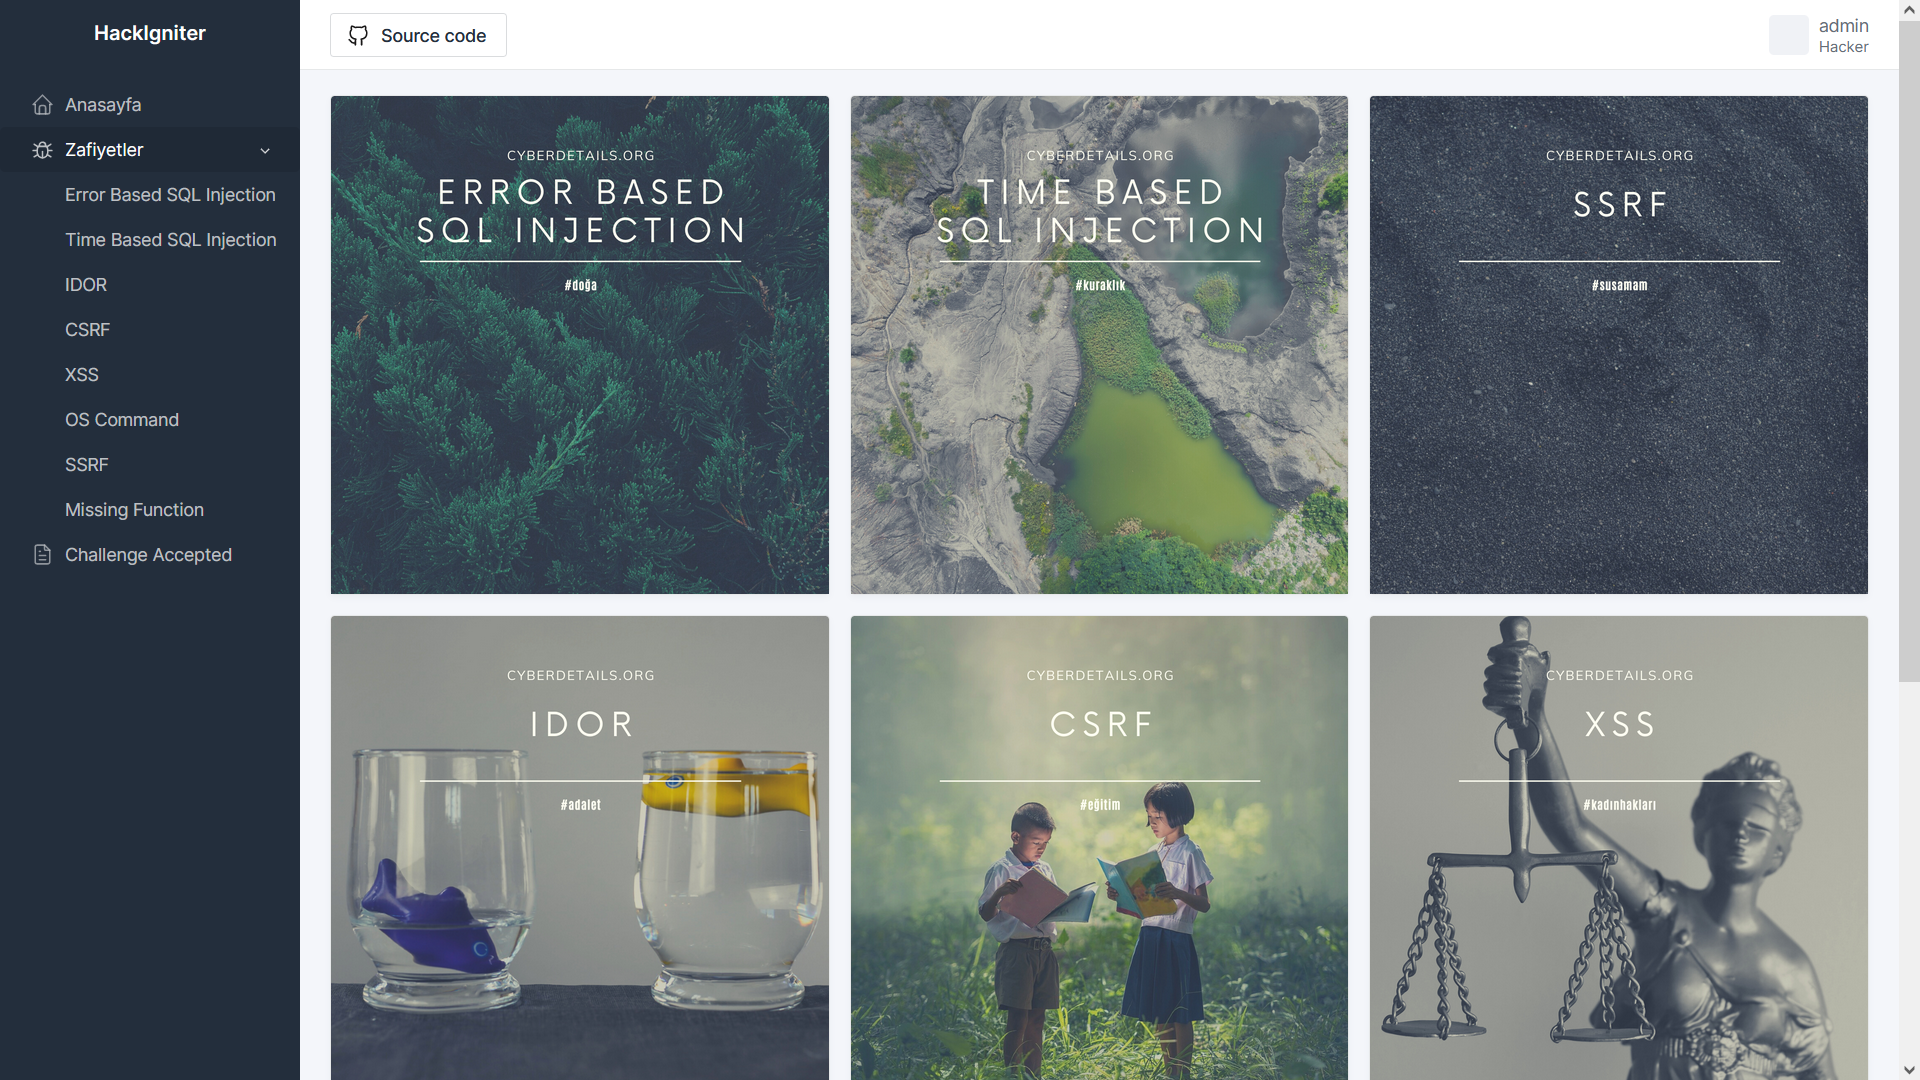
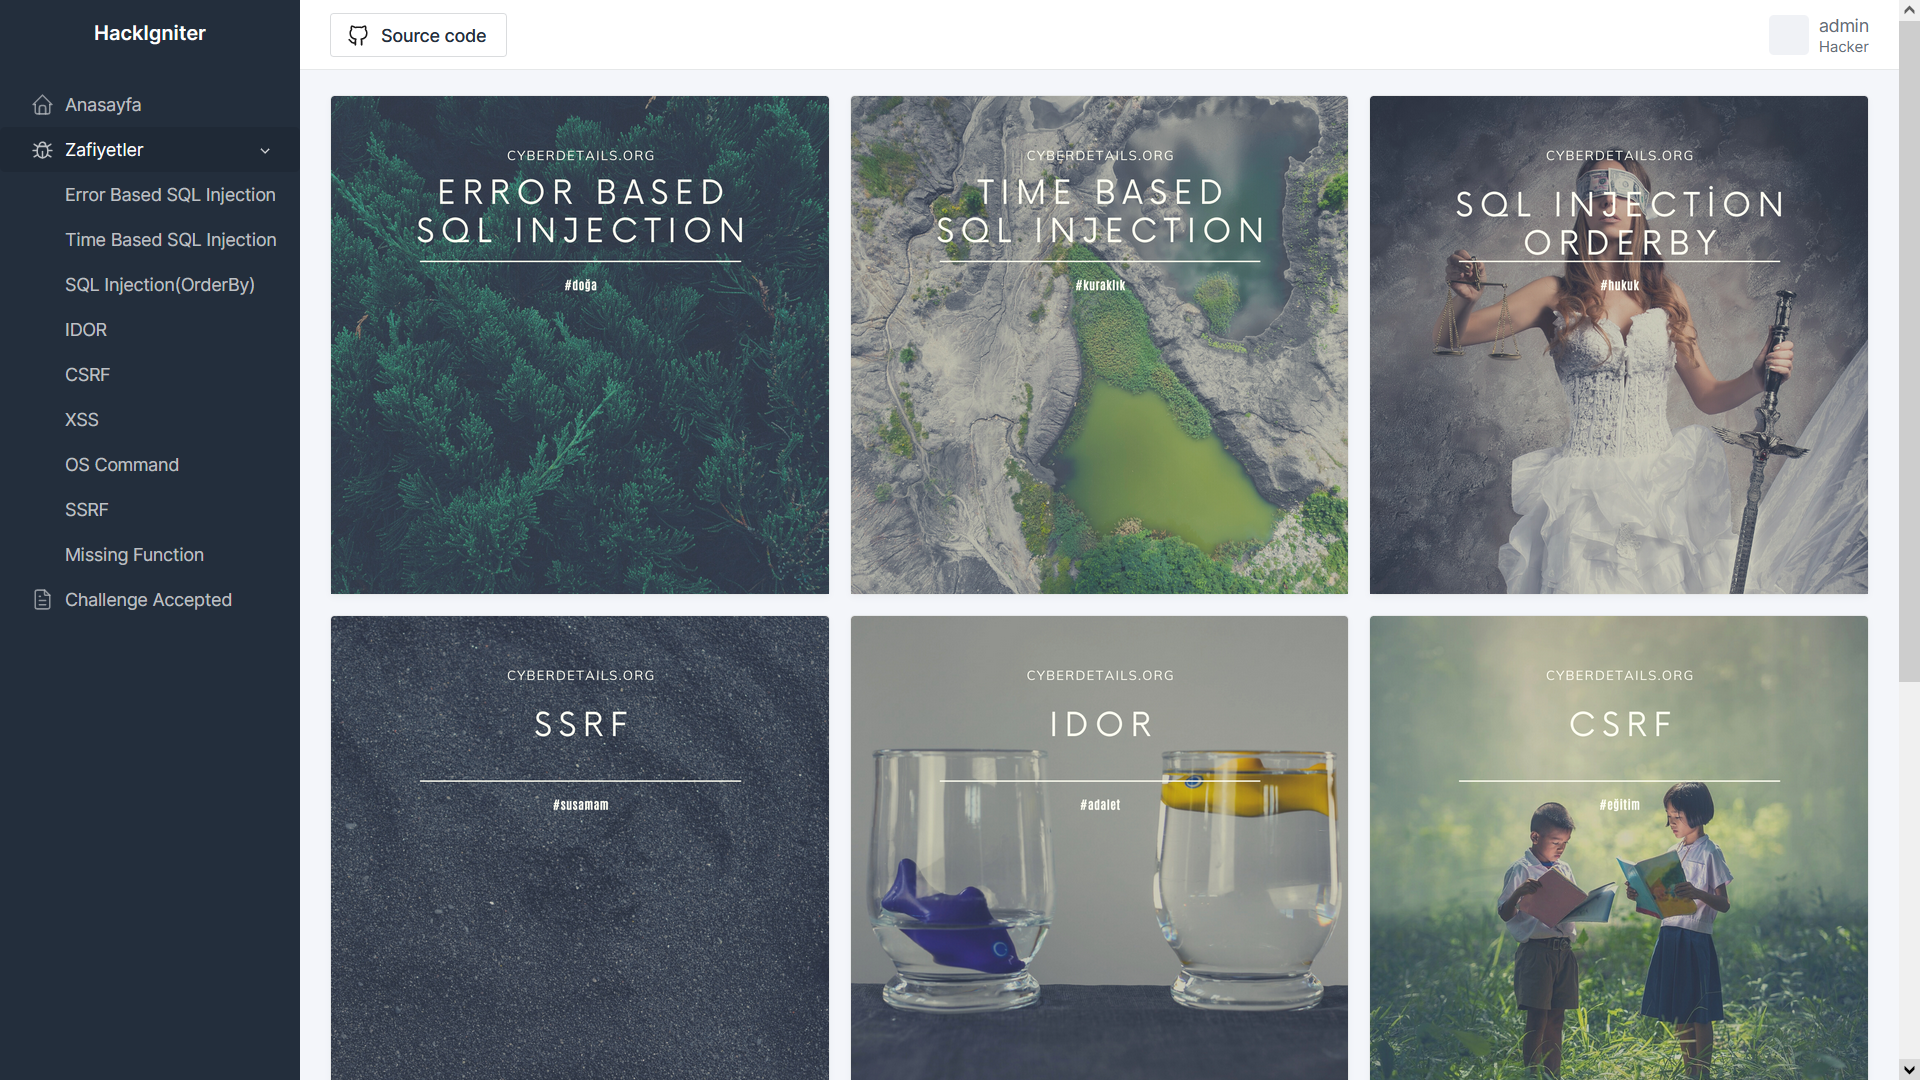
Yeni sql injection zafiyeti eklendi
- HackIgniter ugulamasına yeni bir sql injection zafiyeti eklendi.
- Zafiyet anasayfa, menü alanlarına eklendi.
- Readme sayfasında yer alan versiyon bilgileri ve ana sayfa resmi değiştirildi.
- Kök dizinde yer alan sql dosyası güncellendi.
- Yeni zafiyete ait olan hi_sqli_0 isimli tablonun kurulumu için Setup.php ve SetupModel.php sayfaları gerekli veritabanı oluşturma kodları eklendi.

diff --git a/application/models/SetupModel.php b/application/models/SetupModel.php
@@ -128,4 +128,13 @@ class SetupModel extends CI_Model
         }
     }
 
+    public function hi_sqli_0()
+    {
+        $createTable = "CREATE TABLE `hi_0` ( `id` int(11) NOT NULL AUTO_INCREMENT, `username` varchar(250) NOT NULL, `password` varchar(250) NOT NULL, `loginStatus` enum('0','1') NOT NULL DEFAULT '0', PRIMARY KEY (`id`), UNIQUE KEY `username` (`username`) ) ENGINE=InnoDB AUTO_INCREMENT=3 DEFAULT CHARSET=utf8mb4";
+        $insertData = "INSERT INTO `hi_sqli_0` (`id`, `text`, `author`) VALUES (1, 'Sağı solu belli olmayan Mangala gitti maganda! Orman yanar Tabiatın gözleri kan ağlar', 'Fuat'), (2, 'Abi yapma! Atma şu izmaritini denize Geri alamazsın Gün gelir o pisliğini attığın denize hasret kalırsın, bakamazsın!', 'Ados'), (3, 'Fakirin vergisiyle yatına, katına katana salak Haşere geri yolsuz vekil seni, senin eserin! Şimdi kapını kollaması gereken adalet gelir acımaz\r\n\r\nVurur kırar kapını\r\n\r\nÇünkü çocuk öldü vuran memurdu diye \"Haklıdır\" dedin\r\n\r\nSesini çıkarmadın, yani suçlusun!', 'Şanışer'), (4, 'Medya, basın, hukuk, asker hepsi sizin için çalışırken Aslen güneş bile üzerine doğuyo bu çocukların İşe gidip geliyolar canlarına kasten Silahınızı kin! Bu çektiğimiz bizim günahımız değil Planınız iyi! Ben bilmem bunun inananı kim? Ama bilirim, gel Silahımız dil!', 'Hayki'), (5, 'Müzik yapmak dışında bi\' bok yemedim! Polis bi\' şeyleri problem edip Yine duruşmadayım sen konsere git Ben aynı takım elbisemle 10 senedir Biri dönüp desin bana \"Çaban boş yere değil\" O gün kalbimi, ruhumu komple veriyim ama Yargı gelip arıyor bedeli Yaşıyorum cehennemi, yanıyor bedenim', 'Server Uraz'), (6, 'Merhaba Türkiye Bende var hüviyet Yaşamaya çalışıyoruz hasbelkader gitmeden katakulliye Ekrana süs diye çıkan şarlatan, hep fanatik biri! Fesatlık, kötü niyet salgın gibi Eder daha manipüle! Bu bir temsil ya da piyes! Bu uçaksa bu türbülans! Komşumuzdu Suriye Şimdi bu gemideki vatandaş mı? (Yurttaş mı?) Huzurda değil ölü bile topraktakilerin ahı var Sadece gazeteydi \"Hürriyet\" Sen olabildiğince özgür ol!', 'Beta'), (7, 'Beton ormanda hayvan olman normal Tutsak göz altların yine morlar Yönetenler çağ dışı dinozorlar Bu ormanda herkese göre rol var Sustukça sıra sana gelecek Aydın beyinleri bekliyor karanlık gelecek', 'Asil Slang & Zen-G'), (8, 'Sokak başı üniversite ama köy okulları çok terste Başa gelenin ideolojisi neyse o anlatılır her derste Zengin, fakir ayrı Torpile ya da parasına göre kayırır Eğitim endüstridir İnşaattan rant sağlamaka aynı! Kiminin kitap alıcak bi\' parası yok Öğretmen atanıcak ama \"arası\" yok! Milletvekili bi\' tanıdık mı, wow Beni anlaman da bu mantıkla zor Bari bi\' köy okulunun yardımına koş Her tarafı kaos Sen de biraz boğuş Bu gece uyudu zorla çocuk Okula gidecek YOL YAP!', 'Sokrat St'), (9, 'Anlamak mı yasak olabilir Ama sadece bi\' yanıtı yok bi\' sürü cevap var koş git yanıt ara Peşine düş mutlaka kanıt ara Ruhunu demle hep yakıt ara lan Kalbini tut ve de buna tanık ara Hadi nefesini gör ve git sanat ara Sorgula sorgula atomları Işık hızını düşün ve de git kanat ara sonra Uç uçabildiğin kadar', 'Ozbi'), (10, 'Ben bilmem hiç kendimi korumak zorunda kalmadım Bilmem ben bi\' çocuğu düşünmek zorunda olmadım Hiç evlendirilmedim Evde dayak görmedim Kendi evimde kendi odama zorla hapsedilmedim Sözlerinizi kusmadım Yurdumdan edilmedim Nefretinizle yanmadım Yakılarak can vermedim Hiç kardeşim olmadı Hiç abimden korkmadım Okuldan alınmadım Ben hiç öldürülmedim', 'Deniz Tekin'), (11, 'Ülkede erkek neden en üstte minibüste, evde ya da metrobüste Taciz şiddeti hiç bitmiyo\' Kınamakla falan iş bitmiyo\' Uh, Ah, adam olamadınız bu kalıbının adamı mı para babalarınız? Beşiktaş\'ta beş tokat, leş hareketler Cebi dolu ciğerin beş para etmez Yaşadığın kafa ne? İnsan mısın? Biz utandık ulan! İnsan mısın? İnsan mısın? Bu hale nasıl gelir insan? Nasıl?', 'Yeis Sensura & Sehabe'), (12, 'Düşerim derinlere Dünya, dönsün başım gibi Aklımı kaybederek rüya Nefesim, iç sesim Düşerim derinlere Dünya, dönsün başım gibi Aklımı kaybederek rüya Nefesim, iç sesim Düşerim derinlere', 'Aspova'), (13, 'Bak Almanya buz gibi morg Bana sor sana diyim Gençlerin çoğunda amfetamin, tilidin ya da weed, kokain ya da speed, crack Sana göre güzel ama bana göre değil Bana göre değil, kafana göre yürü bas mayına geber Ederi kaç? Kaç? Kaç? Kaç paraya bedel? Yeter artık dönme teker gibi Dost ol yeter bana Geliyorsan dosdoğru gel', 'Defkhan'), (14, 'Bi\' kap su ver çok mu zor Vicdanlı ol be lanet Anlamak istemiyosun ama bütün bu canlar sana bana emanet Lan bi\' düşün: \"Soğukta kışta dışarda tek başına yaşıyosun Dilini anlayan kimse yok hep tehlike, hep felaket, hep afet\" Ademe bir türlü yaranamazlar Vicdana bakar paraya bakmaz Toplayıp ormana atmak çözüm değil Bunlar kurt değil, ormanda kendi başlarına yaşayamazlar Onları sen savun, onlar kendi haklarını arayamazlar Barınaklar dolu Memleket acı Seması kara Sokak hayvanlarına tecavüz etmenin, işkence etmenin cezası para \"Büyük ahlaksızlıklar için büyük aptallar lazımdır\" Bütün insanlar suçlu değildir ama Bütün hayvanlar masumdur', 'Şanışer'), (15, 'Gel, gül olur hapsolur bu suçlu cümleler! Yenilir hiç olurum fark etmezler! Susmam, susamam! Korkma yanıma gel! Gel, gül olur hapsolur bu suçlu cümleler! Yenilir hiç olurum fark etmezler! Susmam SUSAMAM!', 'Şanışer'), (16, 'Hiçbir şeyi yaşamak kadar sevme Sana bi dünya yaratamam da elini tutarım elbette Varsın herkes terk etsin seni Sen dünyayı terk etme Seni yargılamıyorum Acını tam olarak anlamam mümkün değil biliyorum Kaldıramadığım yükleri bırakıp kendi yolumdan gidiyorum ben Sen de aynaya bak lütfen \"Seni seviyorum\" de', 'Sokrat St'), (17, 'Ey! Faşizm ne mi? En amiyane deyimiyle faka basacağız Beynelmilel el birliğiyle Tek bildiğiniz siz Ve de pek çok kazanın asıl sebebi aşırı hırs Bu hırs bi\' ebedi his. Biz façası pis de eli temiz bir nesiliz Bu işin selesi siz de Tekeri gidonu biz Ey, e bi tabi biz de biz gibi bir nes\'lin peşindeyiz.', 'Aga B'), (18, 'Yüzüne bakamam yüzüm düşer o yerlere Ayakları çıplakken gözleri dalar düşlere Başı önünde ama beden çıkıyor sefere Yok mecal dizinde Bak, her bi\' günü sürgüne Kaçamıyo\' kovalıyo\' zalimler Ele güne, ele bakıyor o gözler Kodamanın parasını ateşe ver Ve de koyduğumun egosunu bi\' yere ser Sokağa bakanın adını değil Yoksulumun, yetimimin adını ver Zabıtaları seyyara değil Gökdelenlere gönder', 'Mirac'), (19, 'Fırtınadan kopup giden dalların bi\' tanesiyim Fazla yol almış ve yıpranmış İçimde neler dönüp durur anlatsam tarifi yok Bazen evsiz bi\' çocuğun hikayesiyim', 'Mert Şenel'), (20, 'Can pazarı, otobanlar can pazarı 365 günün riskli Bitmiyo\' gamsız magandası Öde kan parası Bi\' kaza bayrama matem düşürür Yürek dağlar acılar cabası Bir sela çınlar kulaklarında Hiç dinmez yarası Trafik terörüne eşlik eder alkol, şiddet, hız tutkusu 25 yaşında yüz binlik arabaya binen gençlerin yok korkusu Önce emniyet sonra hoşgörü Sabır, selamet gerekiyor insan Ufacık bir hata her şeyi karartır inan yok dönüşü', 'Kamufle');";
+        if ($this->loadDB->query($createTable) and $this->loadDB->query($insertData)) {
+            return 1;
+        }
+    }
+
 }

diff --git a/application/views/vulnerabilitiesView/Sqli_OrderBy/content.php b/application/views/vulnerabilitiesView/Sqli_OrderBy/content.php
@@ -1,0 +1,86 @@
+<div class="empty">
+    <div class="col-md-12">
+        <div class="card">
+            <ul class="nav nav-tabs" data-bs-toggle="tabs">
+                <li class="nav-item">
+                    <a href="#tabs-home-17" class="nav-link active" data-bs-toggle="tab">SQL
+                        Injection(OrderBy)</a>
+                </li>
+                <li class="nav-item">
+                    <a href="#tabs-profile-17" class="nav-link" data-bs-toggle="tab">a glass of code</a>
+                </li>
+            </ul>
+            <div class="card-body">
+                <div class="tab-content">
+                    <div class="tab-pane fade active show" id="tabs-home-17">
+                        <div class="col-md-12">
+                            <div class="mb-3">
+                                <label class="form-label">Sıralamak istediğiniz sütunu seçin</label>
+                                <form action="<?php echo base_url("Vulnerabilities/Sqli_OrderBy"); ?>" method="post">
+                                    <div class="form-selectgroup">
+                                        <label class="form-selectgroup-item">
+                                            <input type="checkbox" name="name" value="ID"
+                                                   class="form-selectgroup-input">
+                                            <span class="form-selectgroup-label">ID</span>
+                                        </label>
+                                        <label class="form-selectgroup-item">
+                                            <input type="checkbox" name="name" value="Author"
+                                                   class="form-selectgroup-input">
+                                            <span class="form-selectgroup-label">Author</span>
+                                        </label>
+                                        <label class="form-selectgroup-item">
+                                            <input type="checkbox" name="name" value="Text"
+                                                   class="form-selectgroup-input">
+                                            <span class="form-selectgroup-label">Text</span>
+                                        </label>
+                                        <label class="form-selectgroup-item">
+                                            <button type="submit" class="btn btn-outline-primary w-100">Sırala</button>
+                                        </label>
+                                    </div>
+                                </form>
+                            </div>
+                            <?php foreach ($posts as $post) { ?>
+                                <div class="card mb-2">
+                                    <div class="card-body">
+                                        <p><?php echo $post->text ?></p>
+                                    </div>
+                                    <!-- Card footer -->
+                                    <div class="card-footer">
+                                        <div class="row align-items-center">
+                                            <?php echo $post->author ?>
+                                            <div class="col-auto ms-auto">
+                                                <div class="avatar-list avatar-list-stacked">
+                                                    <span class="avatar avatar-sm avatar-rounded">SU</span>
+                                                    <span class="avatar avatar-sm avatar-rounded">SA</span>
+                                                    <span class="avatar avatar-sm avatar-rounded">MA</span>
+                                                    <span class="avatar avatar-sm avatar-rounded">MA</span>
+                                                    <span class="avatar avatar-sm avatar-rounded">NL</span>
+                                                    <span class="avatar avatar-sm avatar-rounded">AA</span>
+                                                    <span class="avatar avatar-sm avatar-rounded">+1875</span>
+                                                </div>
+                                            </div>
+                                        </div>
+                                    </div>
+                                </div>
+                            <?php } ?>
+                        </div>
+                    </div>
+                    <div class="tab-pane fade" id="tabs-profile-17">
+                        <div class="container-xl">
+                            <div class="card card-lg">
+                                <div class="card-body ">
+                                    <div class="row g-4">
+                                        <div class="col-12 markdown">
+                                            <p>Merhaba, order by dan sonra gelecek olan sütün adını dinamik bir şekilde
+                                                çağırmalısın.</p>
+                                        </div>
+                                    </div>
+                                </div>
+                            </div>
+                        </div>
+                    </div>
+                </div>
+            </div>
+        </div>
+    </div>
+</div>

diff --git a/application/models/VulnerabilitiesModel.php b/application/models/VulnerabilitiesModel.php
@@ -139,29 +139,12 @@ class VulnerabilitiesModel extends CI_Model
         return $this->db->where($where)->delete("hi_missingfunction_0");
     }
 
-    public function get($where = array())
+    public function Sqli_OrderBySelectQuery($order = "id")
     {
-        return $this->db->where($where)->get($this->tableName)->row();
-    }
-
-    public function get_all($where = array(), $order = "id ASC")
-    {
-        return $this->db->where($where)->order_by($order)->get($this->tableName)->result();
-    }
-
-    public function add($data = array())
-    {
-        return $this->db->insert($this->tableName, $data);
-    }
-
-    public function update($where = array(), $data = array())
-    {
-        return $this->db->where($where)->update($this->tableName, $data);
-    }
-
-    public function delete($where = array())
-    {
-        return $this->db->where($where)->delete($this->tableName);
+        $query = "select * from hi_sqli_0 order by " . $order;
+        if ($this->db->query($query)->result()) {
+            return $this->db->query($query)->result();
+        }
     }
 
 }

diff --git a/application/controllers/Vulnerabilities.php b/application/controllers/Vulnerabilities.php
@@ -676,5 +676,22 @@ class Vulnerabilities extends CI_Controller
         redirect(base_url("Vulnerabilities/missingFunction"));
     }
 
+    public function Sqli_OrderBy()
+    {
+        $viewData = new stdClass();
+        $viewData->viewFolder = $this->viewFolder;
+        $viewData->subViewFolder = "Sqli_OrderBy";
+
+        if ($this->input->post()) {
+            $value = $this->input->post()["name"];
+            $viewData->posts = $this->VulnerabilitiesModel->Sqli_OrderBySelectQuery($value);
+            $this->load->view("{$viewData->viewFolder}/{$viewData->subViewFolder}/index", $viewData);
+        } else {
+            $viewData->posts = $this->VulnerabilitiesModel->Sqli_OrderBySelectQuery("id");
+            $this->load->view("{$viewData->viewFolder}/{$viewData->subViewFolder}/index", $viewData);
+        }
+
+    }
+
 
 }

diff --git a/application/views/mainView/view/content.php b/application/views/mainView/view/content.php
@@ -16,6 +16,13 @@
         </div>
         <div class="col-sm-6 col-lg-4">
             <div class="card card-sm">
+                <a href="<?php echo base_url("Vulnerabilities/Sqli_OrderBy") ?>" class="d-block"><img
+                            src="<?php echo base_url("assets/img"); ?>/cyberdetails/10.png"
+                            class="card-img-top"></a>
+            </div>
+        </div>
+        <div class="col-sm-6 col-lg-4">
+            <div class="card card-sm">
                 <a href="<?php echo base_url("Vulnerabilities/ssrf"); ?>" class="d-block"><img
                             src="<?php echo base_url("assets/img"); ?>/cyberdetails/8.png"
                             class="card-img-top"></a>

diff --git a/application/views/includes/aside.php b/application/views/includes/aside.php
@@ -75,6 +75,9 @@
                         <a class="dropdown-item" href="<?php echo base_url("Vulnerabilities/timeBasedSqli") ?>">
                             Time Based SQL Injection
                         </a>
+                        <a class="dropdown-item" href="<?php echo base_url("Vulnerabilities/Sqli_OrderBy") ?>">
+                            SQL Injection(OrderBy)
+                        </a>
                         <a class="dropdown-item" href="<?php echo base_url("Vulnerabilities/idor") ?>">
                             IDOR
                         </a>

diff --git a/application/views/loginView/view/content.php b/application/views/loginView/view/content.php
@@ -5,7 +5,7 @@
     <?php echo $error; ?>
     <form class="card card-md" action="<?php echo base_url("Login/Check") ?>" method="POST" autocomplete="off">
         <div class="card-body">
-            <h2 class="card-title text-center mb-4">v0.0-pilot.3</h2>
+            <h2 class="card-title text-center mb-4">v0.0-pilot.5</h2>
             <div class="mb-3">
                 <label class="form-label">Kullanıcı Adı</label>
                 <input name="username" type="text" class="form-control">

diff --git a/application/views/setupView/view/content.php b/application/views/setupView/view/content.php
@@ -202,7 +202,7 @@
                             All rights reserved.
                         </li>
                         <li class="list-inline-item">
-                            <a href="" class="link-secondary" rel="noopener">HackIgniter v0.0-pilot.3 - Vulnerable Web
+                            <a href="" class="link-secondary" rel="noopener">HackIgniter v0.0-pilot.5 - Vulnerable Web
                                 Application</a>
                         </li>
                     </ul>

diff --git a/application/views/vulnerabilitiesView/Sqli_OrderBy/index.php b/application/views/vulnerabilitiesView/Sqli_OrderBy/index.php
@@ -1,0 +1,13 @@
+<!doctype html>
+<html lang="en">
+<?php $this->load->view("includes/head") ?>
+<body class="antialiased">
+<div class="page">
+    <?php $this->load->view("includes/aside") ?>
+    <?php $this->load->view("includes/header") ?>
+    <div class="content">
+        <?php $this->load->view("{$viewFolder}/{$subViewFolder}/content") ?>
+    </div>
+</div>
+</body>
+</html>

diff --git a/application/controllers/Setup.php b/application/controllers/Setup.php
@@ -40,6 +40,7 @@ class Setup extends CI_Controller
                 $this->SetupModel->hi_xss_0();
                 $this->SetupModel->hi_xss_1();
                 $this->SetupModel->hi_xss_2();
+                $this->SetupModel->hi_sqli_0();
 
                 $data = array("name" => "hackigniter");
                 file_put_contents(FCPATH . "\db.json", json_encode($data));

diff --git a/README.md b/README.md
@@ -4,7 +4,7 @@
 
 <p align="center">
 <a href="https://github.com/ferhatcil/hackigniter"><img title="hackigniter" src="https://img.shields.io/badge/Tool-HackIgniter-red.svg"></a>
-<a href="https://github.com/ferhatcil/hackigniter"><img title="Version" src="https://img.shields.io/badge/Version-v0.0.pilot.4-red.svg?style=flat-square"></a>
+<a href="https://github.com/ferhatcil/hackigniter"><img title="Version" src="https://img.shields.io/badge/Version-v0.0.pilot.5-red.svg?style=flat-square"></a>
 </p>
 
 <p align="center">  
@@ -123,7 +123,7 @@ HackIgniter uygulamasının veritabanı kurulumunu gerçekleştirmek için kulla
 </p>
 
 ## Version
-- Current version is v0.0-pilot.4
+- Current version is v0.0-pilot.5
 
 ## Connect :
 
